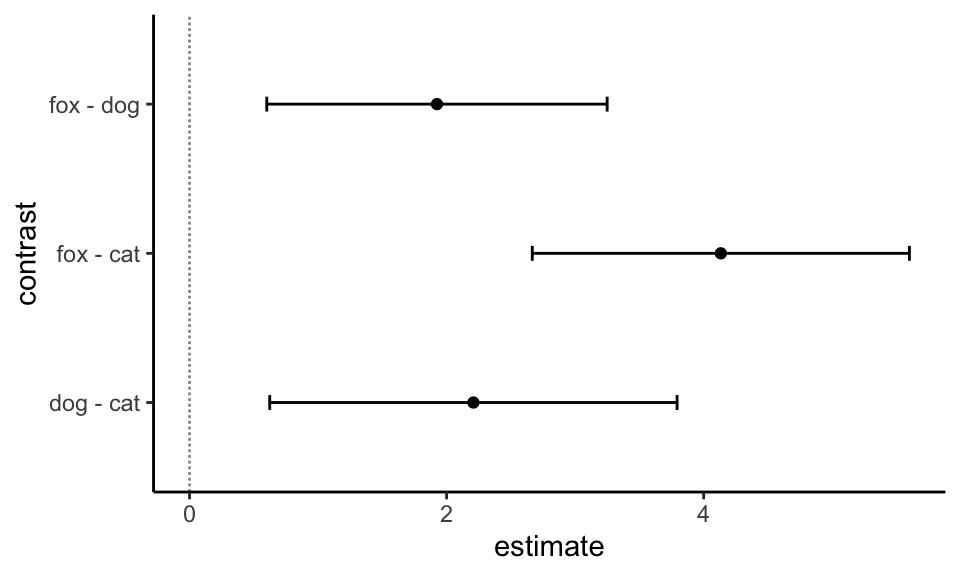
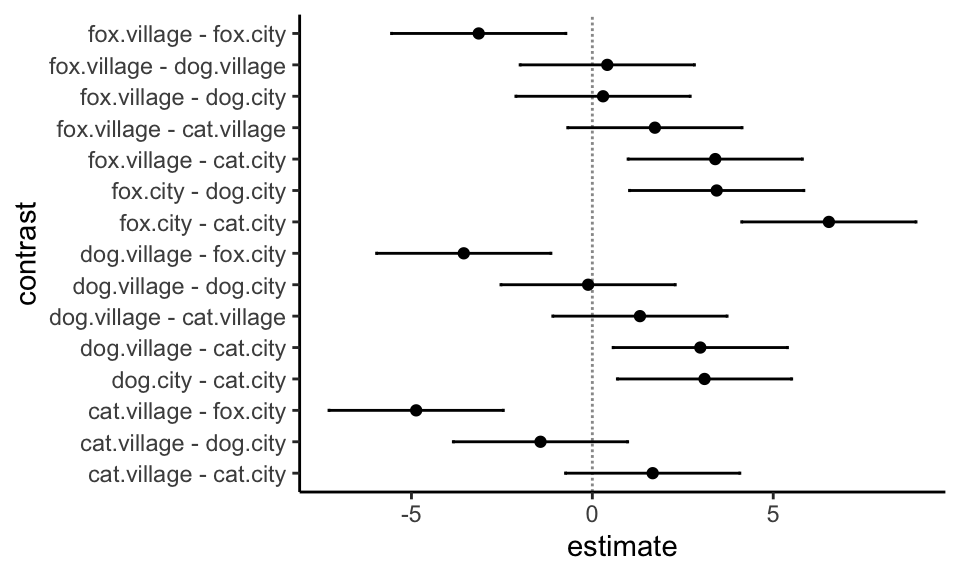
added

diff --git a/docs/stat-tests-posthoc2.html b/docs/stat-tests-posthoc2.html
@@ -3237,7 +3237,7 @@ C 6 -0.2 -0.2 -0.2 -0.2 -0.2  1.0</code></pre>
   &lt;chr&gt;        &lt;dbl&gt;       &lt;dbl&gt;
 1 cat - dog    -3.39    0.0244  
 2 fox - dog     1.03    0.554   
-3 fox - cat     4.41    0.000309</code></pre>
+3 fox - cat     4.41    0.000271</code></pre>
 </div>
 </div>
 <p>Wir können auch die Adjustierung der p-Werte ausschalten indem wir nochmal die Funktion <code>summary()</code> mit der entsprechenden Option dazwischenschalten. Das ist dann auf jeden Fall nochmal eine gute Option, wenn man beides haben möchte.</p>
@@ -3318,7 +3318,7 @@ Abbildung&nbsp;78.18— Simultane 95% Konfidenzintervalle für den paarweisen Ve
 <div class="sourceCode cell-code" id="cb106"><pre class="sourceCode r code-with-copy"><code class="sourceCode r"><span id="cb106-1"><a href="#cb106-1" aria-hidden="true" tabindex="-1"></a>fac2_fit <span class="ot">&lt;-</span> <span class="fu">lm</span>(jump_length <span class="sc">~</span> animal <span class="sc">+</span> site <span class="sc">+</span> animal<span class="sc">:</span>site, <span class="at">data =</span> fac2_tbl)</span></code><button title="In die Zwischenablage kopieren" class="code-copy-button"><i class="bi"></i></button></pre></div>
 </details>
 </div>
-<p>Jetzt müssen wir aber einiges an Option auswählen, damit wir die zweifaktorielle Analyse auch gut durchrechnen können. <em>Wichtig ist hier, dass wir über den zweiten Faktor mitteln.</em> Daher verlieren wir den zweiten Faktor in der Betrachung der folgenden Ergebnisse. Manchmal wollen wir das, häufig wollen wir das nicht. Deshalb nutzen wir die Option <code>covariate_average = TRUE</code> und <code>interaction_average = TRUE</code> um eben über den zweiten Faktor <code>site</code> und die Interaktion <code>animal:site</code> zu mitteln (eng <em>average</em>).</p>
+<p>Jetzt müssen wir aber einiges an Option auswählen, damit wir die zweifaktorielle Analyse auch gut durchrechnen können. <em>Wichtig ist hier, dass wir über den zweiten Faktor mitteln.</em> Daher verlieren wir den zweiten Faktor in der Betrachung der folgenden Ergebnisse. Manchmal wollen wir das, häufig wollen wir das nicht. Deshalb nutzen wir die Option <code>covariate_average = TRUE</code> und <code>interaction_average = TRUE</code> um eben über den zweiten Faktor <code>site</code> und die Interaktion <code>animal:site</code> zu mitteln (eng. <em>average</em>). Optimal ist es dann trotzdem nicht.</p>
 <div class="cell">
 <details open="" class="code-fold">
 <summary>R Code [zeigen / verbergen]</summary>
@@ -3338,7 +3338,7 @@ Abbildung&nbsp;78.18— Simultane 95% Konfidenzintervalle für den paarweisen Ve
 0.4335275 0.3715813 0.3027267 </code></pre>
 </div>
 </div>
-<p>Dann einmal mit der Interaktion</p>
+<p>Jetzt haben wir alles toll über den zweiten Faktor und die Interaktion gemittelt. Das ist aber nicht so super, wenn wir eine signifikante Interaktion vorliegen haben. Da sollten wir uns den ersten Faktor getrennt für den zweiten Faktor anschauen. Und das wird dann in <code>{multcomp}</code> etwas sperrig um es mal freundlich auszudrücken. Wir müssen uns erstmal eine neue Variable bauen, die alle Faktorkombinationen enthält. Das macht die Funktion <code>interaction()</code> für uns.</p>
 <div class="cell">
 <details open="" class="code-fold">
 <summary>R Code [zeigen / verbergen]</summary>
@@ -3374,9 +3374,9 @@ Abbildung&nbsp;78.18— Simultane 95% Konfidenzintervalle für den paarweisen Ve
 <pre><code># A tibble: 3 × 5
   contrast  estimate  adj.p.value conf.low conf.high
   &lt;chr&gt;        &lt;dbl&gt;        &lt;dbl&gt;    &lt;dbl&gt;     &lt;dbl&gt;
-1 dog - cat     2.21 0.00407         0.624      3.79
-2 fox - cat     4.13 0.0000000667    2.67       5.60
-3 fox - dog     1.93 0.00263         0.601      3.25</code></pre>
+1 dog - cat     2.21 0.00401         0.624      3.79
+2 fox - cat     4.13 0.0000000146    2.67       5.60
+3 fox - dog     1.93 0.00273         0.601      3.25</code></pre>
 </div>
 </div>
 <div class="cell">
@@ -3416,7 +3416,7 @@ Abbildung&nbsp;78.18— Simultane 95% Konfidenzintervalle für den paarweisen Ve
 <div class="cell" data-layout-align="center">
 <details open="" class="code-fold">
 <summary>R Code [zeigen / verbergen]</summary>
-<div class="sourceCode cell-code" id="cb119"><pre class="sourceCode r code-with-copy"><code class="sourceCode r"><span id="cb119-1"><a href="#cb119-1" aria-hidden="true" tabindex="-1"></a>multcomp_fac2_obj <span class="sc">|&gt;</span> </span>
+<div class="sourceCode cell-code" id="cb119"><pre class="sourceCode r code-with-copy"><code class="sourceCode r"><span id="cb119-1"><a href="#cb119-1" aria-hidden="true" tabindex="-1"></a>multcomp_fac2_inter_obj <span class="sc">|&gt;</span> </span>
 <span id="cb119-2"><a href="#cb119-2" aria-hidden="true" tabindex="-1"></a>  <span class="fu">tidy</span>(<span class="at">conf.int =</span> <span class="cn">TRUE</span>) <span class="sc">|&gt;</span> </span>
 <span id="cb119-3"><a href="#cb119-3" aria-hidden="true" tabindex="-1"></a>  <span class="fu">ggplot</span>(<span class="fu">aes</span>(contrast, <span class="at">y=</span>estimate, </span>
 <span id="cb119-4"><a href="#cb119-4" aria-hidden="true" tabindex="-1"></a>             <span class="at">ymin=</span>conf.low, <span class="at">ymax=</span>conf.high)) <span class="sc">+</span></span>
@@ -3570,9 +3570,9 @@ Abbildung&nbsp;78.21— Darstellung verschiedener relativer Effekte <span class=
 </details>
 <div class="cell-output cell-output-stdout">
 <pre><code>      Comparison Estimator Lower Upper Statistic    p.Value
-1 p( dog , cat )     0.102 0.012 0.505 -2.345283 0.05298987
-2 p( dog , fox )     0.684 0.275 0.925  1.050004 0.60502732
-3 p( cat , fox )     0.980 0.611 0.999  2.681488 0.02109968</code></pre>
+1 p( dog , cat )     0.102 0.012 0.505 -2.345283 0.05273525
+2 p( dog , fox )     0.684 0.275 0.925  1.050004 0.60503492
+3 p( cat , fox )     0.980 0.611 0.999  2.681488 0.02093838</code></pre>
 </div>
 </div>
 <p>Was wir eigentlich brauchen ist der p-Wert in der letzten Spalte. Spannend ist hier, dass <code>nparcomp()</code> den Vergleich von Hunde- und Katzenflöhen nicht als signifikant findet. Das ist eine Folge davon, dass <code>nparcomp()</code> etwas konservativer ist als die anderen hier vorgestellten Verfahren. Wenn du nochmal nachvollziehen willst, wie der relative Effekt <code>Estimator</code> zu interpretieren ist, habe ich dir nochmal im folgenden eine zusammenfassende Tabelle mit den Mittelwerten der einzelnen Gruppen gebaut. Für mich ist der Wert immer noch von hinten durch die Brust. Leider hat der relative Effekt keinen Bezug zur biologischen Einheit der Messwerte. Deshalb ist die Interpretation im günstigsten Fall schwierig.</p>
@@ -6085,7 +6085,7 @@ window.document.addEventListener("DOMContentLoaded", function (event) {
 <span id="cb163-1585"><a href="#cb163-1585" aria-hidden="true" tabindex="-1"></a>fac2_fit <span class="ot">&lt;-</span> <span class="fu">lm</span>(jump_length <span class="sc">~</span> animal <span class="sc">+</span> site <span class="sc">+</span> animal<span class="sc">:</span>site, <span class="at">data =</span> fac2_tbl)</span>
 <span id="cb163-1586"><a href="#cb163-1586" aria-hidden="true" tabindex="-1"></a><span class="in">```</span></span>
 <span id="cb163-1587"><a href="#cb163-1587" aria-hidden="true" tabindex="-1"></a></span>
-<span id="cb163-1588"><a href="#cb163-1588" aria-hidden="true" tabindex="-1"></a>Jetzt müssen wir aber einiges an Option auswählen, damit wir die zweifaktorielle Analyse auch gut durchrechnen können. *Wichtig ist hier, dass wir über den zweiten Faktor mitteln.* Daher verlieren wir den zweiten Faktor in der Betrachung der folgenden Ergebnisse. Manchmal wollen wir das, häufig wollen wir das nicht. Deshalb nutzen wir die Option `covariate_average = TRUE` und `interaction_average = TRUE` um eben über den zweiten Faktor `site` und die Interaktion `animal:site` zu mitteln (eng *average*).</span>
+<span id="cb163-1588"><a href="#cb163-1588" aria-hidden="true" tabindex="-1"></a>Jetzt müssen wir aber einiges an Option auswählen, damit wir die zweifaktorielle Analyse auch gut durchrechnen können. *Wichtig ist hier, dass wir über den zweiten Faktor mitteln.* Daher verlieren wir den zweiten Faktor in der Betrachung der folgenden Ergebnisse. Manchmal wollen wir das, häufig wollen wir das nicht. Deshalb nutzen wir die Option `covariate_average = TRUE` und `interaction_average = TRUE` um eben über den zweiten Faktor `site` und die Interaktion `animal:site` zu mitteln (eng. *average*). Optimal ist es dann trotzdem nicht.</span>
 <span id="cb163-1589"><a href="#cb163-1589" aria-hidden="true" tabindex="-1"></a></span>
 <span id="cb163-1592"><a href="#cb163-1592" aria-hidden="true" tabindex="-1"></a><span class="in">```{r}</span></span>
 <span id="cb163-1593"><a href="#cb163-1593" aria-hidden="true" tabindex="-1"></a>multcomp_fac2_obj <span class="ot">&lt;-</span> <span class="fu">glht</span>(fac2_fit, <span class="at">linfct =</span> <span class="fu">mcp</span>(<span class="at">animal =</span> <span class="st">"Tukey"</span>,</span>
@@ -6099,7 +6099,7 @@ window.document.addEventListener("DOMContentLoaded", function (event) {
 <span id="cb163-1603"><a href="#cb163-1603" aria-hidden="true" tabindex="-1"></a><span class="fu">vcov</span>(multcomp_fac2_obj) <span class="sc">|&gt;</span> <span class="fu">diag</span>()</span>
 <span id="cb163-1604"><a href="#cb163-1604" aria-hidden="true" tabindex="-1"></a><span class="in">```</span></span>
 <span id="cb163-1605"><a href="#cb163-1605" aria-hidden="true" tabindex="-1"></a></span>
-<span id="cb163-1606"><a href="#cb163-1606" aria-hidden="true" tabindex="-1"></a>Dann einmal mit der Interaktion</span>
+<span id="cb163-1606"><a href="#cb163-1606" aria-hidden="true" tabindex="-1"></a>Jetzt haben wir alles toll über den zweiten Faktor und die Interaktion gemittelt. Das ist aber nicht so super, wenn wir eine signifikante Interaktion vorliegen haben. Da sollten wir uns den ersten Faktor getrennt für den zweiten Faktor anschauen. Und das wird dann in <span class="in">`{multcomp}`</span> etwas sperrig um es mal freundlich auszudrücken. Wir müssen uns erstmal eine neue Variable bauen, die alle Faktorkombinationen enthält. Das macht die Funktion <span class="in">`interaction()`</span> für uns.</span>
 <span id="cb163-1607"><a href="#cb163-1607" aria-hidden="true" tabindex="-1"></a></span>
 <span id="cb163-1610"><a href="#cb163-1610" aria-hidden="true" tabindex="-1"></a><span class="in">```{r}</span></span>
 <span id="cb163-1611"><a href="#cb163-1611" aria-hidden="true" tabindex="-1"></a>fac2_inter_tbl <span class="ot">&lt;-</span> fac2_tbl <span class="sc">|&gt;</span> </span>
@@ -6156,7 +6156,7 @@ window.document.addEventListener("DOMContentLoaded", function (event) {
 <span id="cb163-1674"><a href="#cb163-1674" aria-hidden="true" tabindex="-1"></a><span class="co">#| fig-cap: "Simultane 95% Konfidenzintervalle für den paarweisen Vergleich der Sprungweiten in [cm] der Hunde-, Katzen- und Fuchsflöhe."</span></span>
 <span id="cb163-1675"><a href="#cb163-1675" aria-hidden="true" tabindex="-1"></a><span class="co">#| label: fig-multcomp-fac2</span></span>
 <span id="cb163-1676"><a href="#cb163-1676" aria-hidden="true" tabindex="-1"></a></span>
-<span id="cb163-1677"><a href="#cb163-1677" aria-hidden="true" tabindex="-1"></a>multcomp_fac2_obj <span class="sc">|&gt;</span> </span>
+<span id="cb163-1677"><a href="#cb163-1677" aria-hidden="true" tabindex="-1"></a>multcomp_fac2_inter_obj <span class="sc">|&gt;</span> </span>
 <span id="cb163-1678"><a href="#cb163-1678" aria-hidden="true" tabindex="-1"></a>  <span class="fu">tidy</span>(<span class="at">conf.int =</span> <span class="cn">TRUE</span>) <span class="sc">|&gt;</span> </span>
 <span id="cb163-1679"><a href="#cb163-1679" aria-hidden="true" tabindex="-1"></a>  <span class="fu">ggplot</span>(<span class="fu">aes</span>(contrast, <span class="at">y=</span>estimate, </span>
 <span id="cb163-1680"><a href="#cb163-1680" aria-hidden="true" tabindex="-1"></a>             <span class="at">ymin=</span>conf.low, <span class="at">ymax=</span>conf.high)) <span class="sc">+</span></span>
